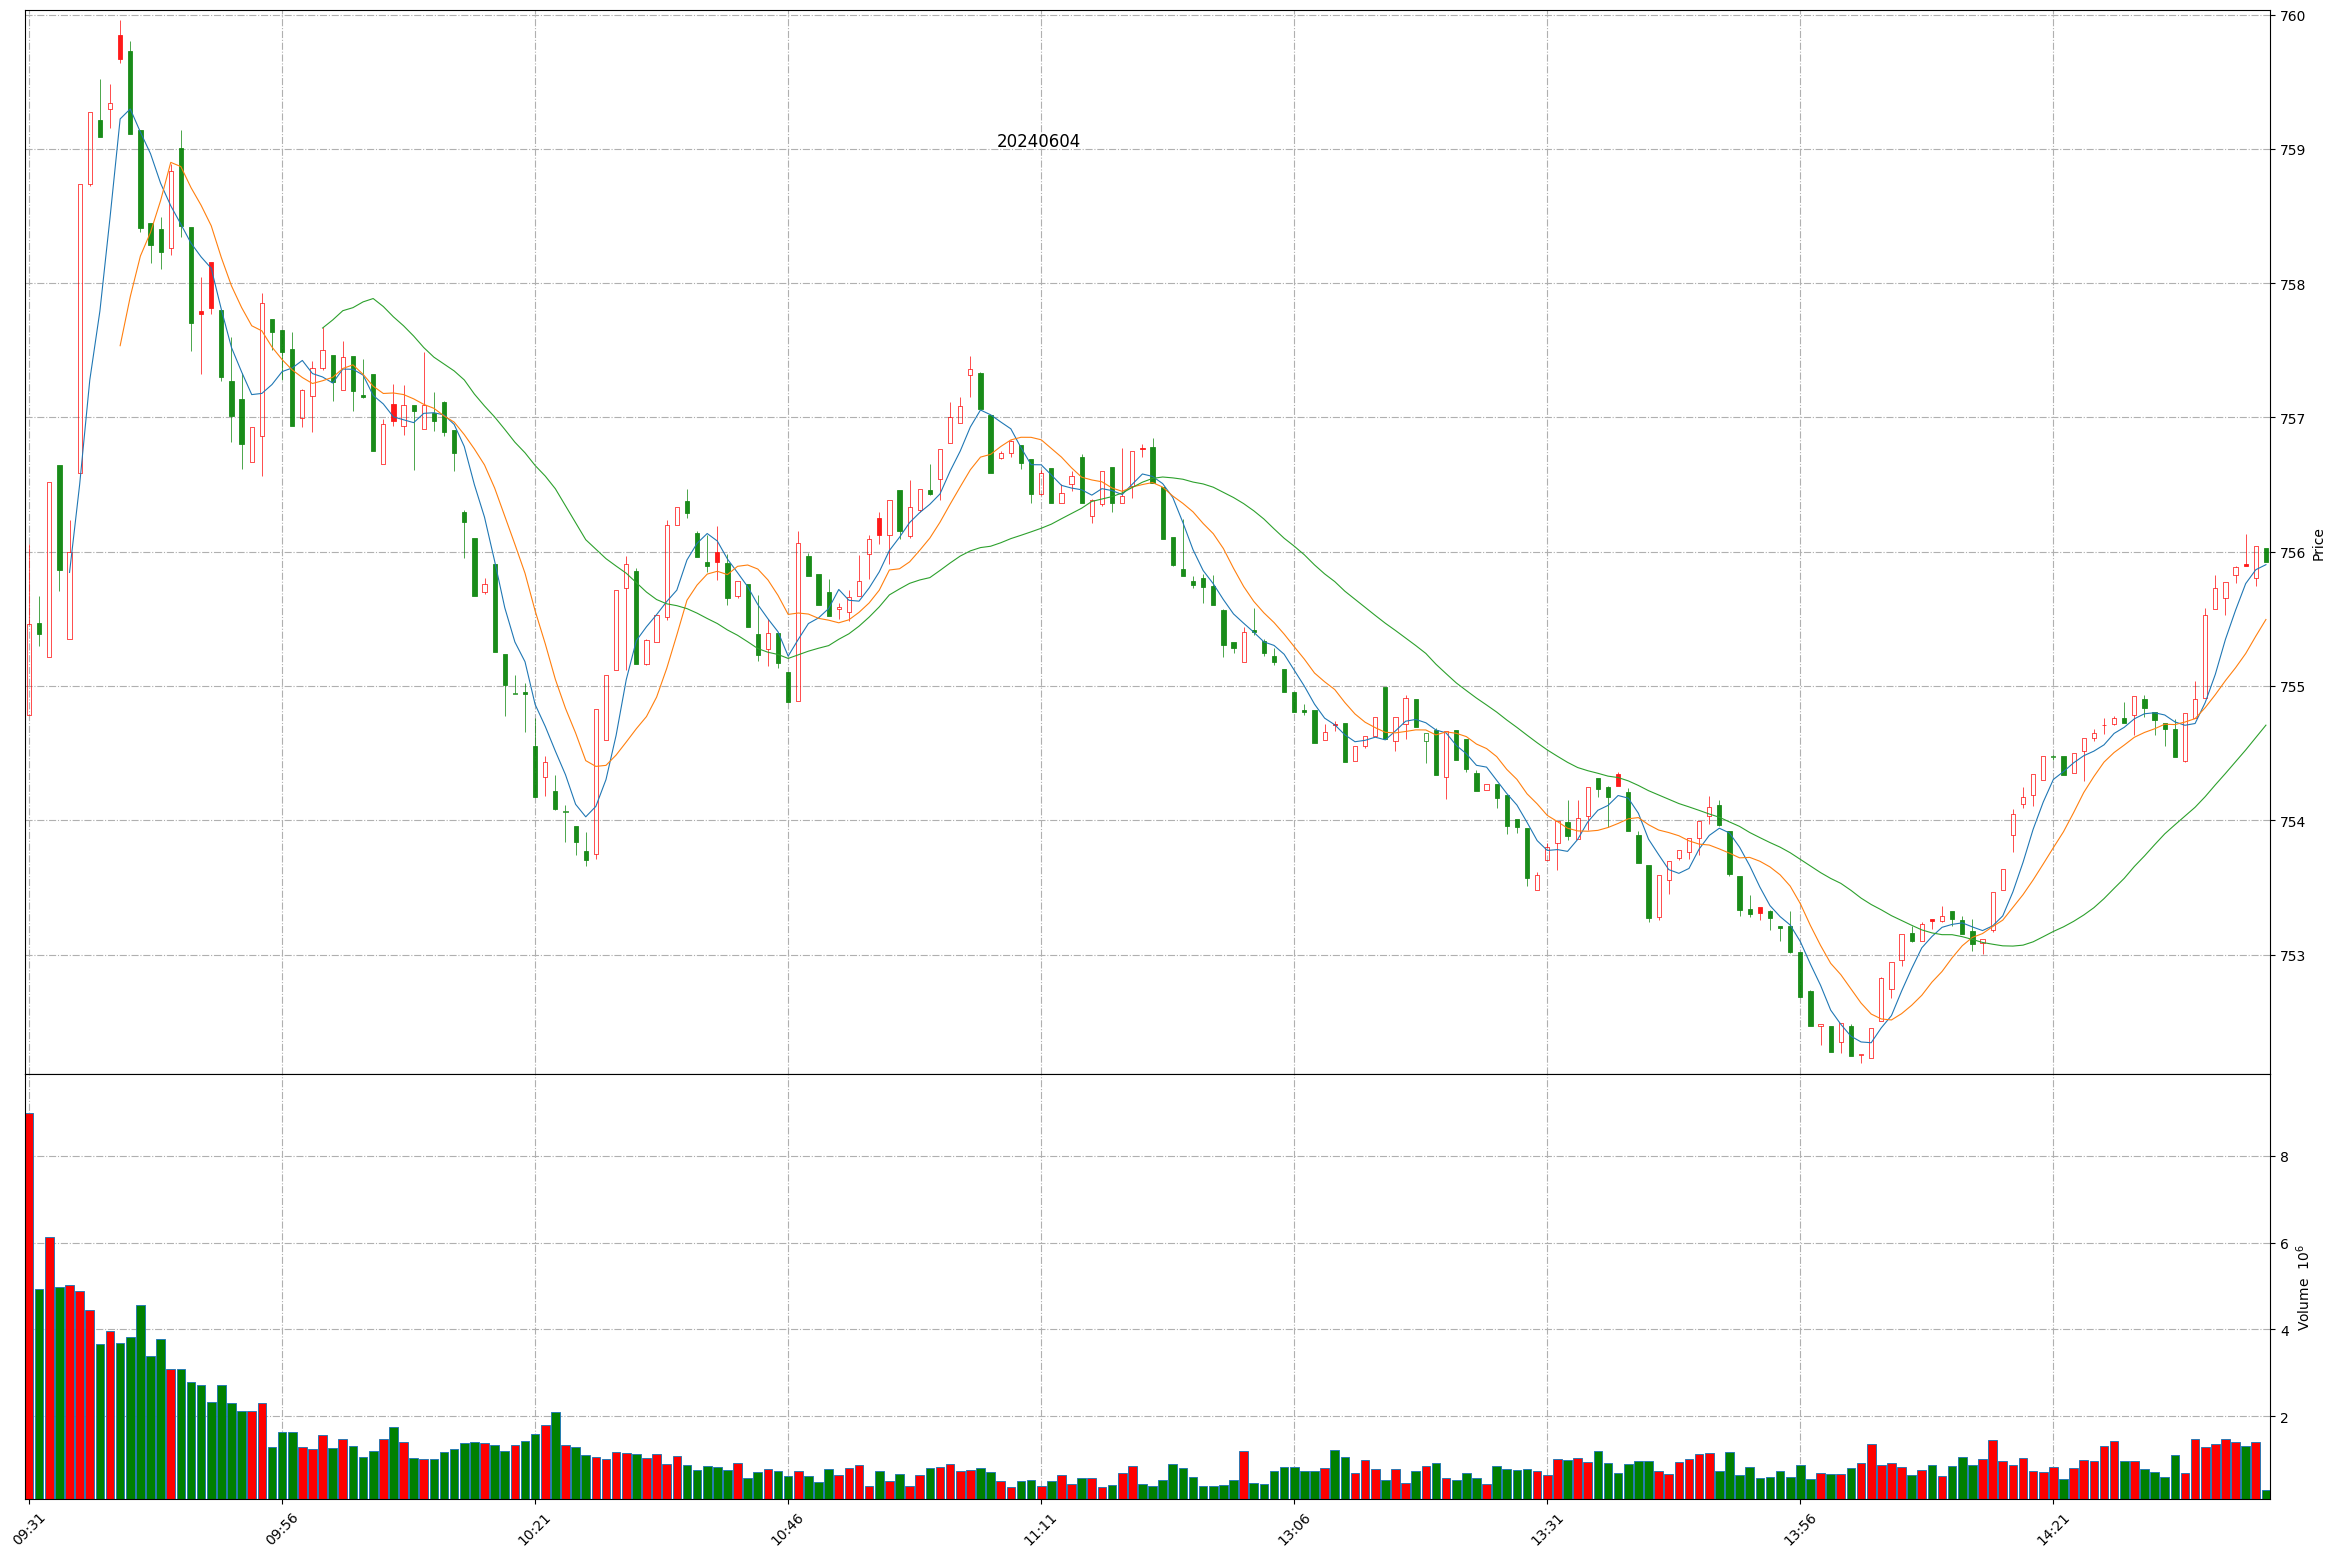
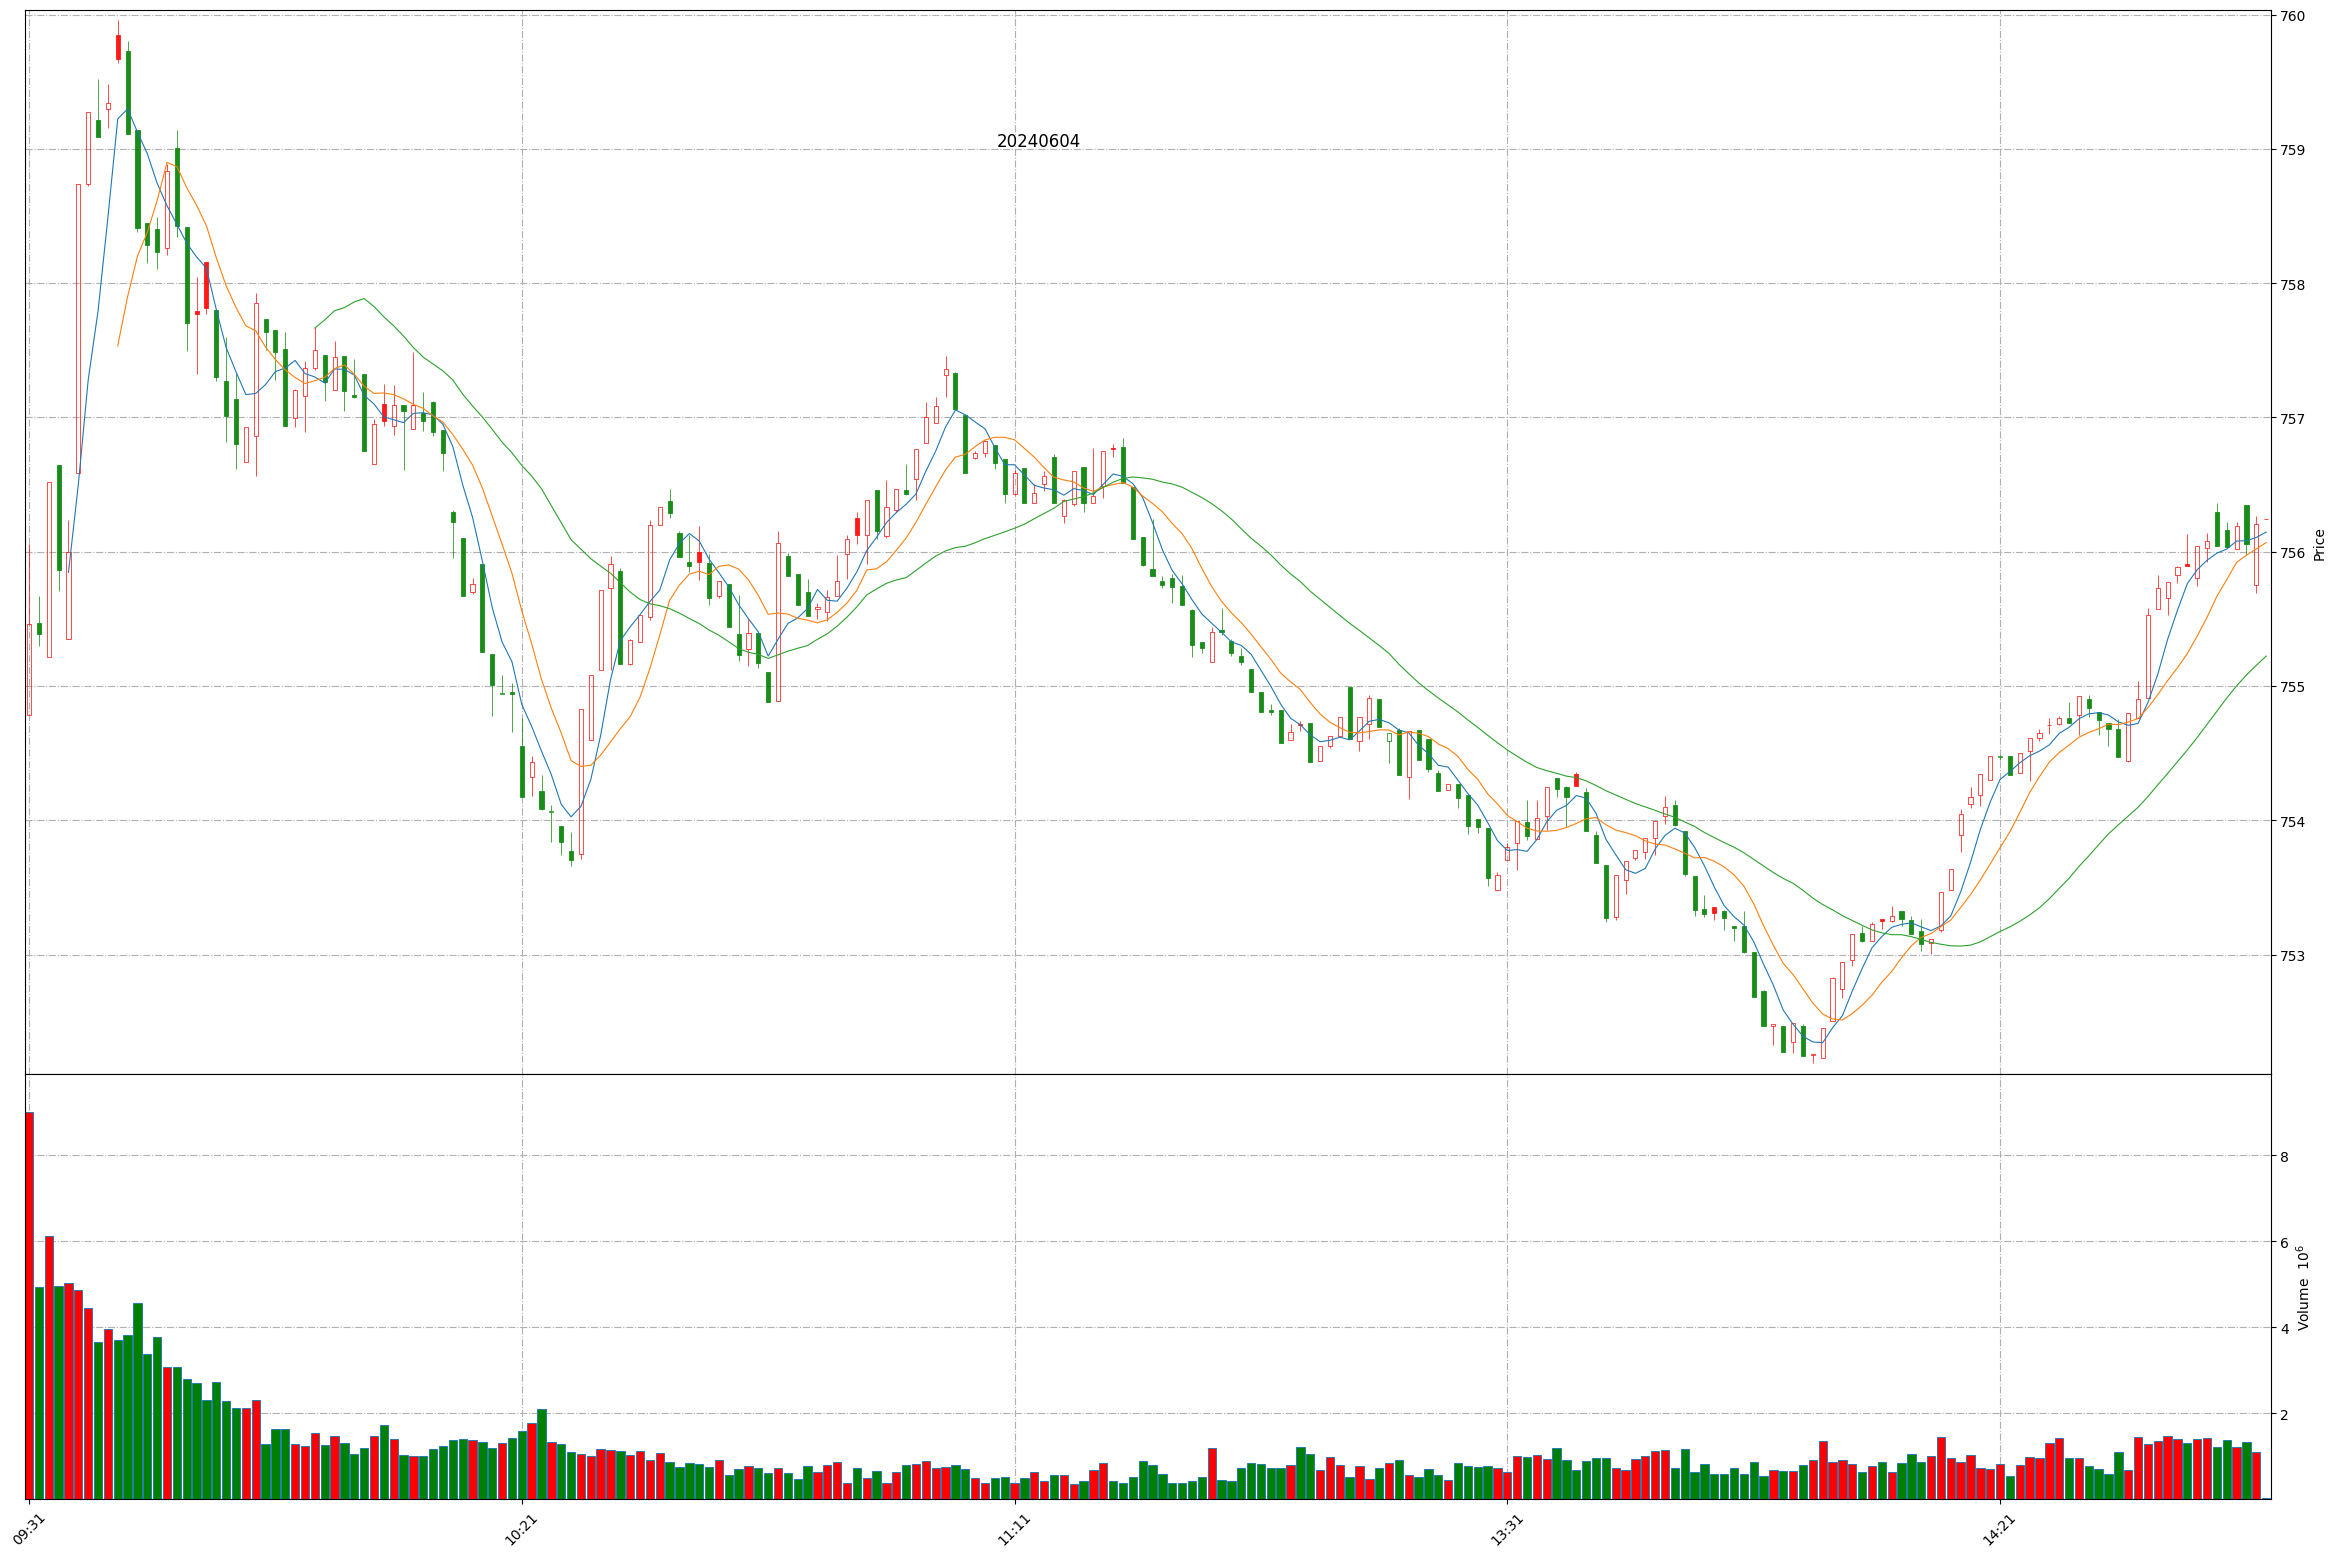
Github action update at 2024-06-04 14:47:12.

diff --git a/README.md b/README.md
@@ -1,11 +1,11 @@
 
 # Daily-A-share-market-quotes 每日 A 股指数（5min 更新）- 20240604
 
-### 上证指数 20240604 14:41
+### 上证指数 20240604 14:47
 ![](./fig/2024/6/20240604-sh000001.png)
 
-### 深证成指 20240604 14:41
+### 深证成指 20240604 14:47
 ![](./fig/2024/6/20240604-sz399001.png)
 
-### 北证50 20240604 14:41
+### 北证50 20240604 14:47
 ![](./fig/2024/6/20240604-bj899050.png)
